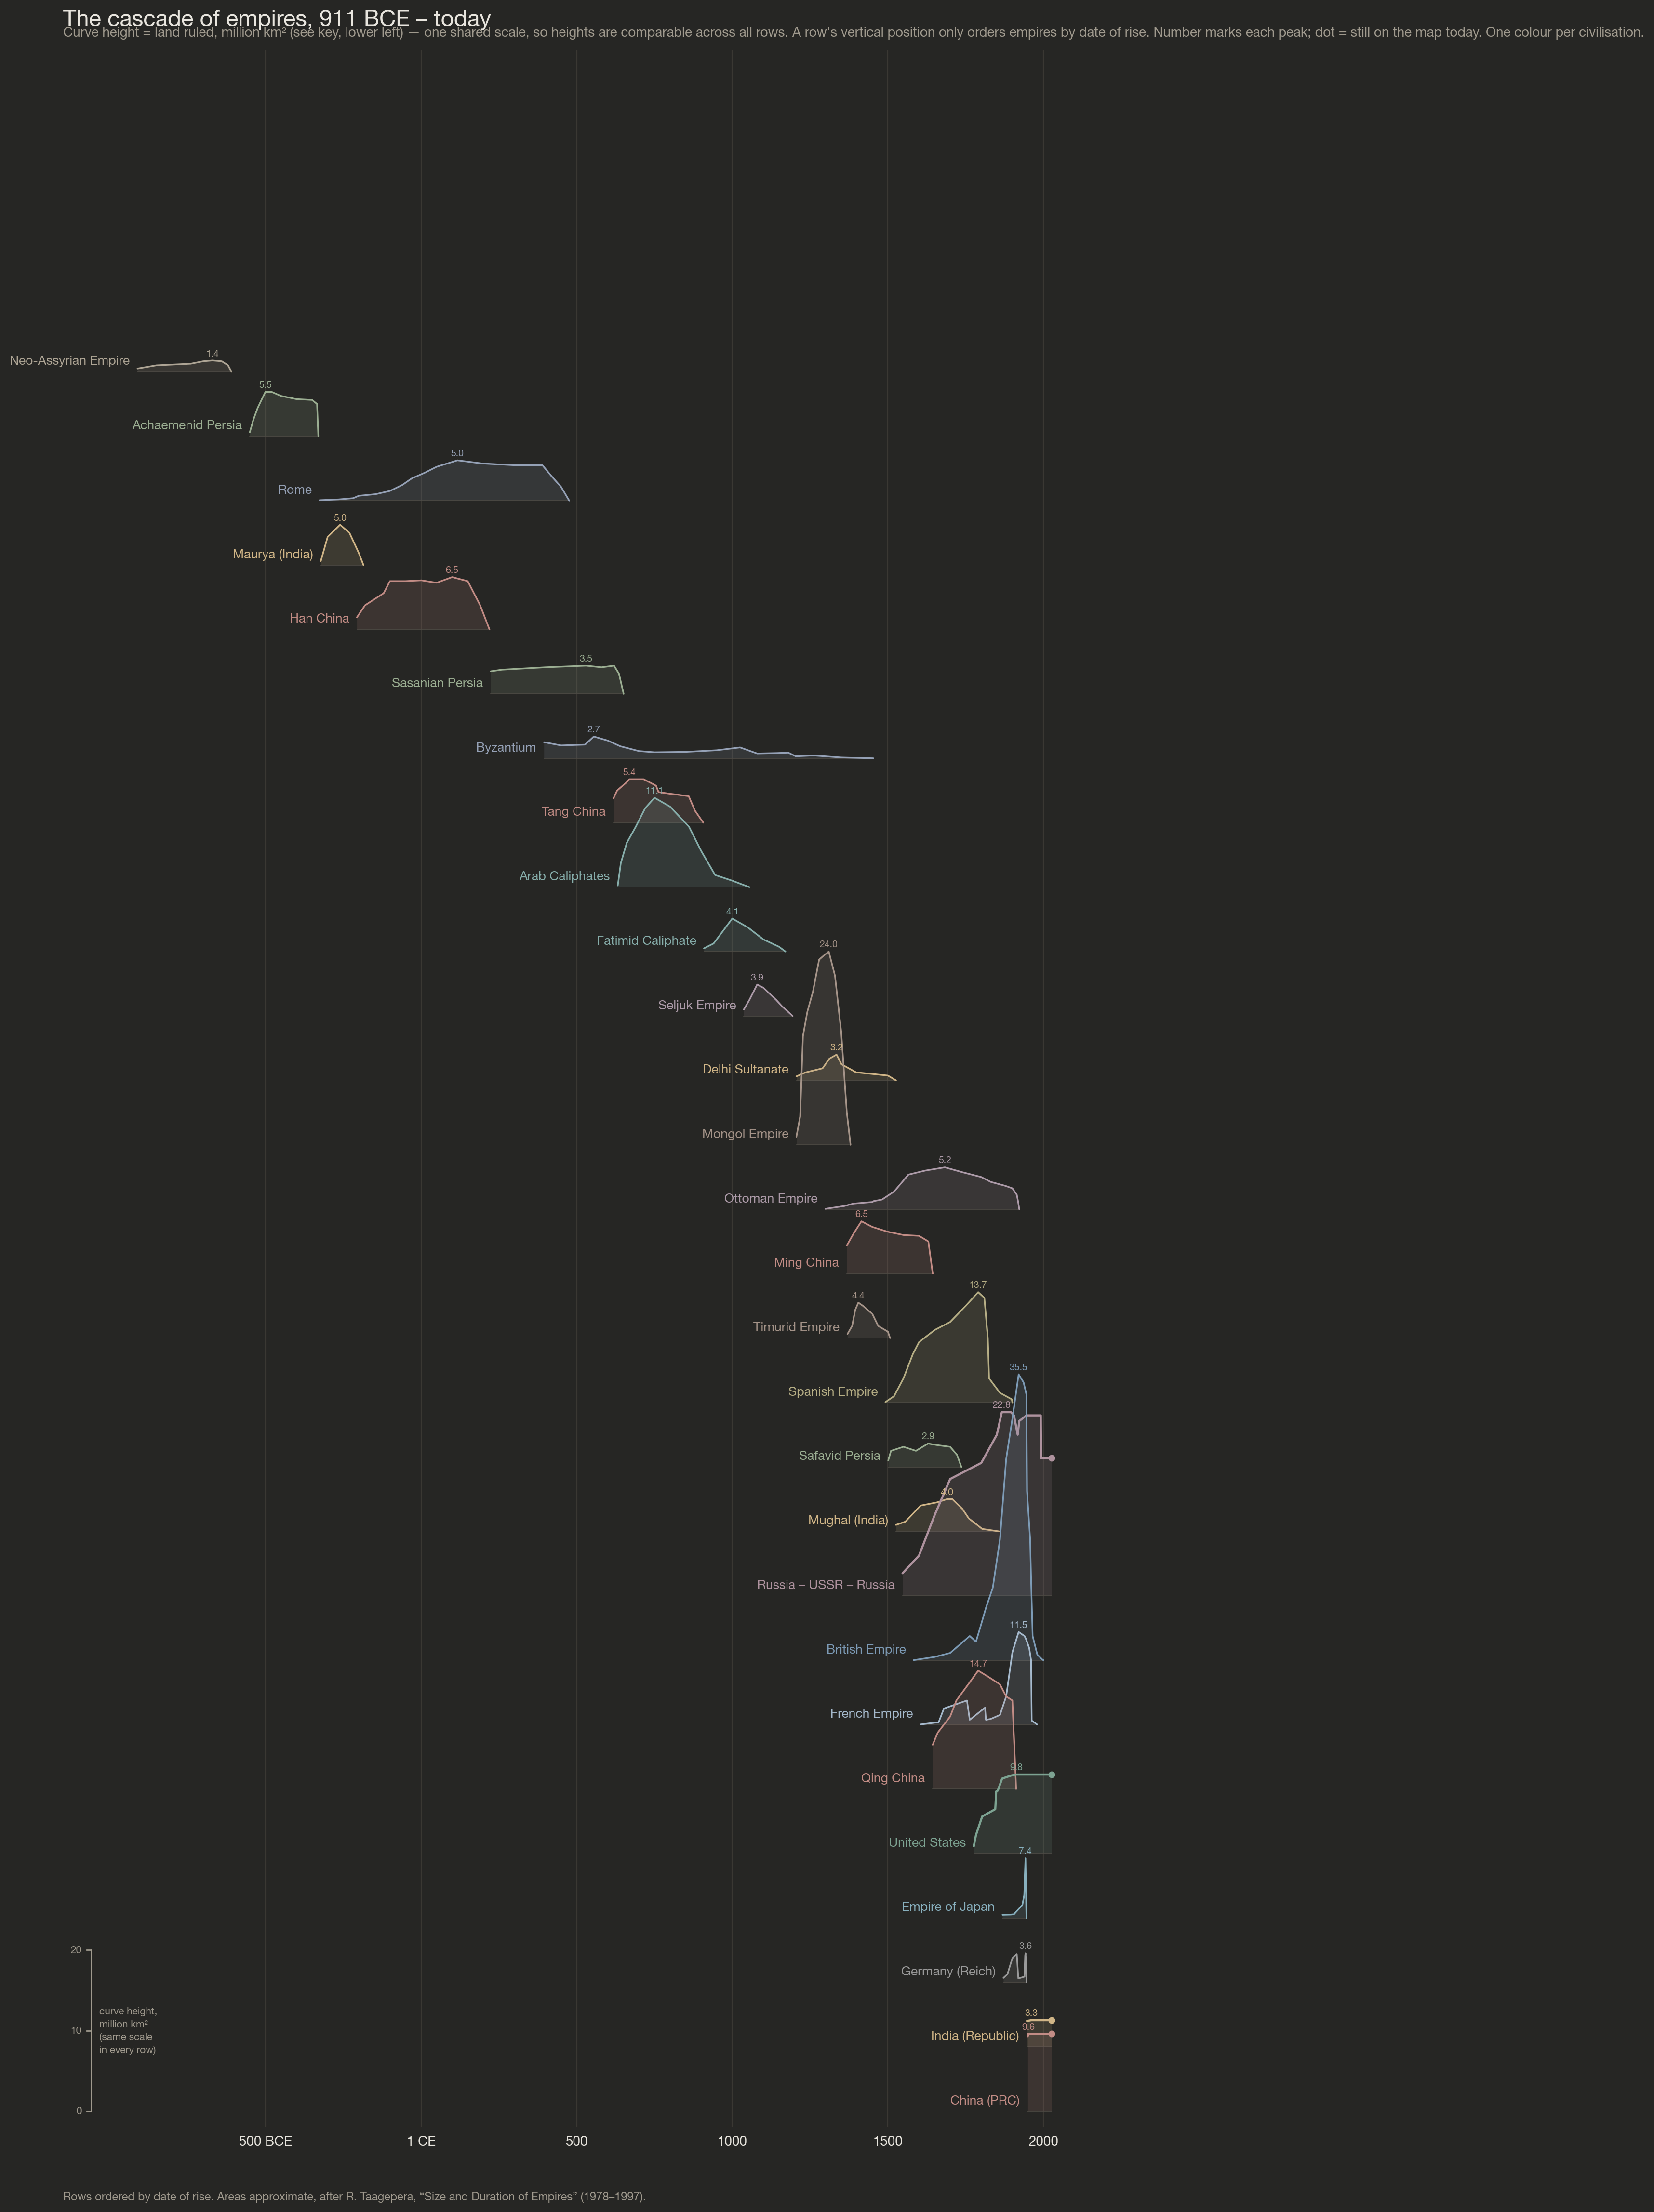
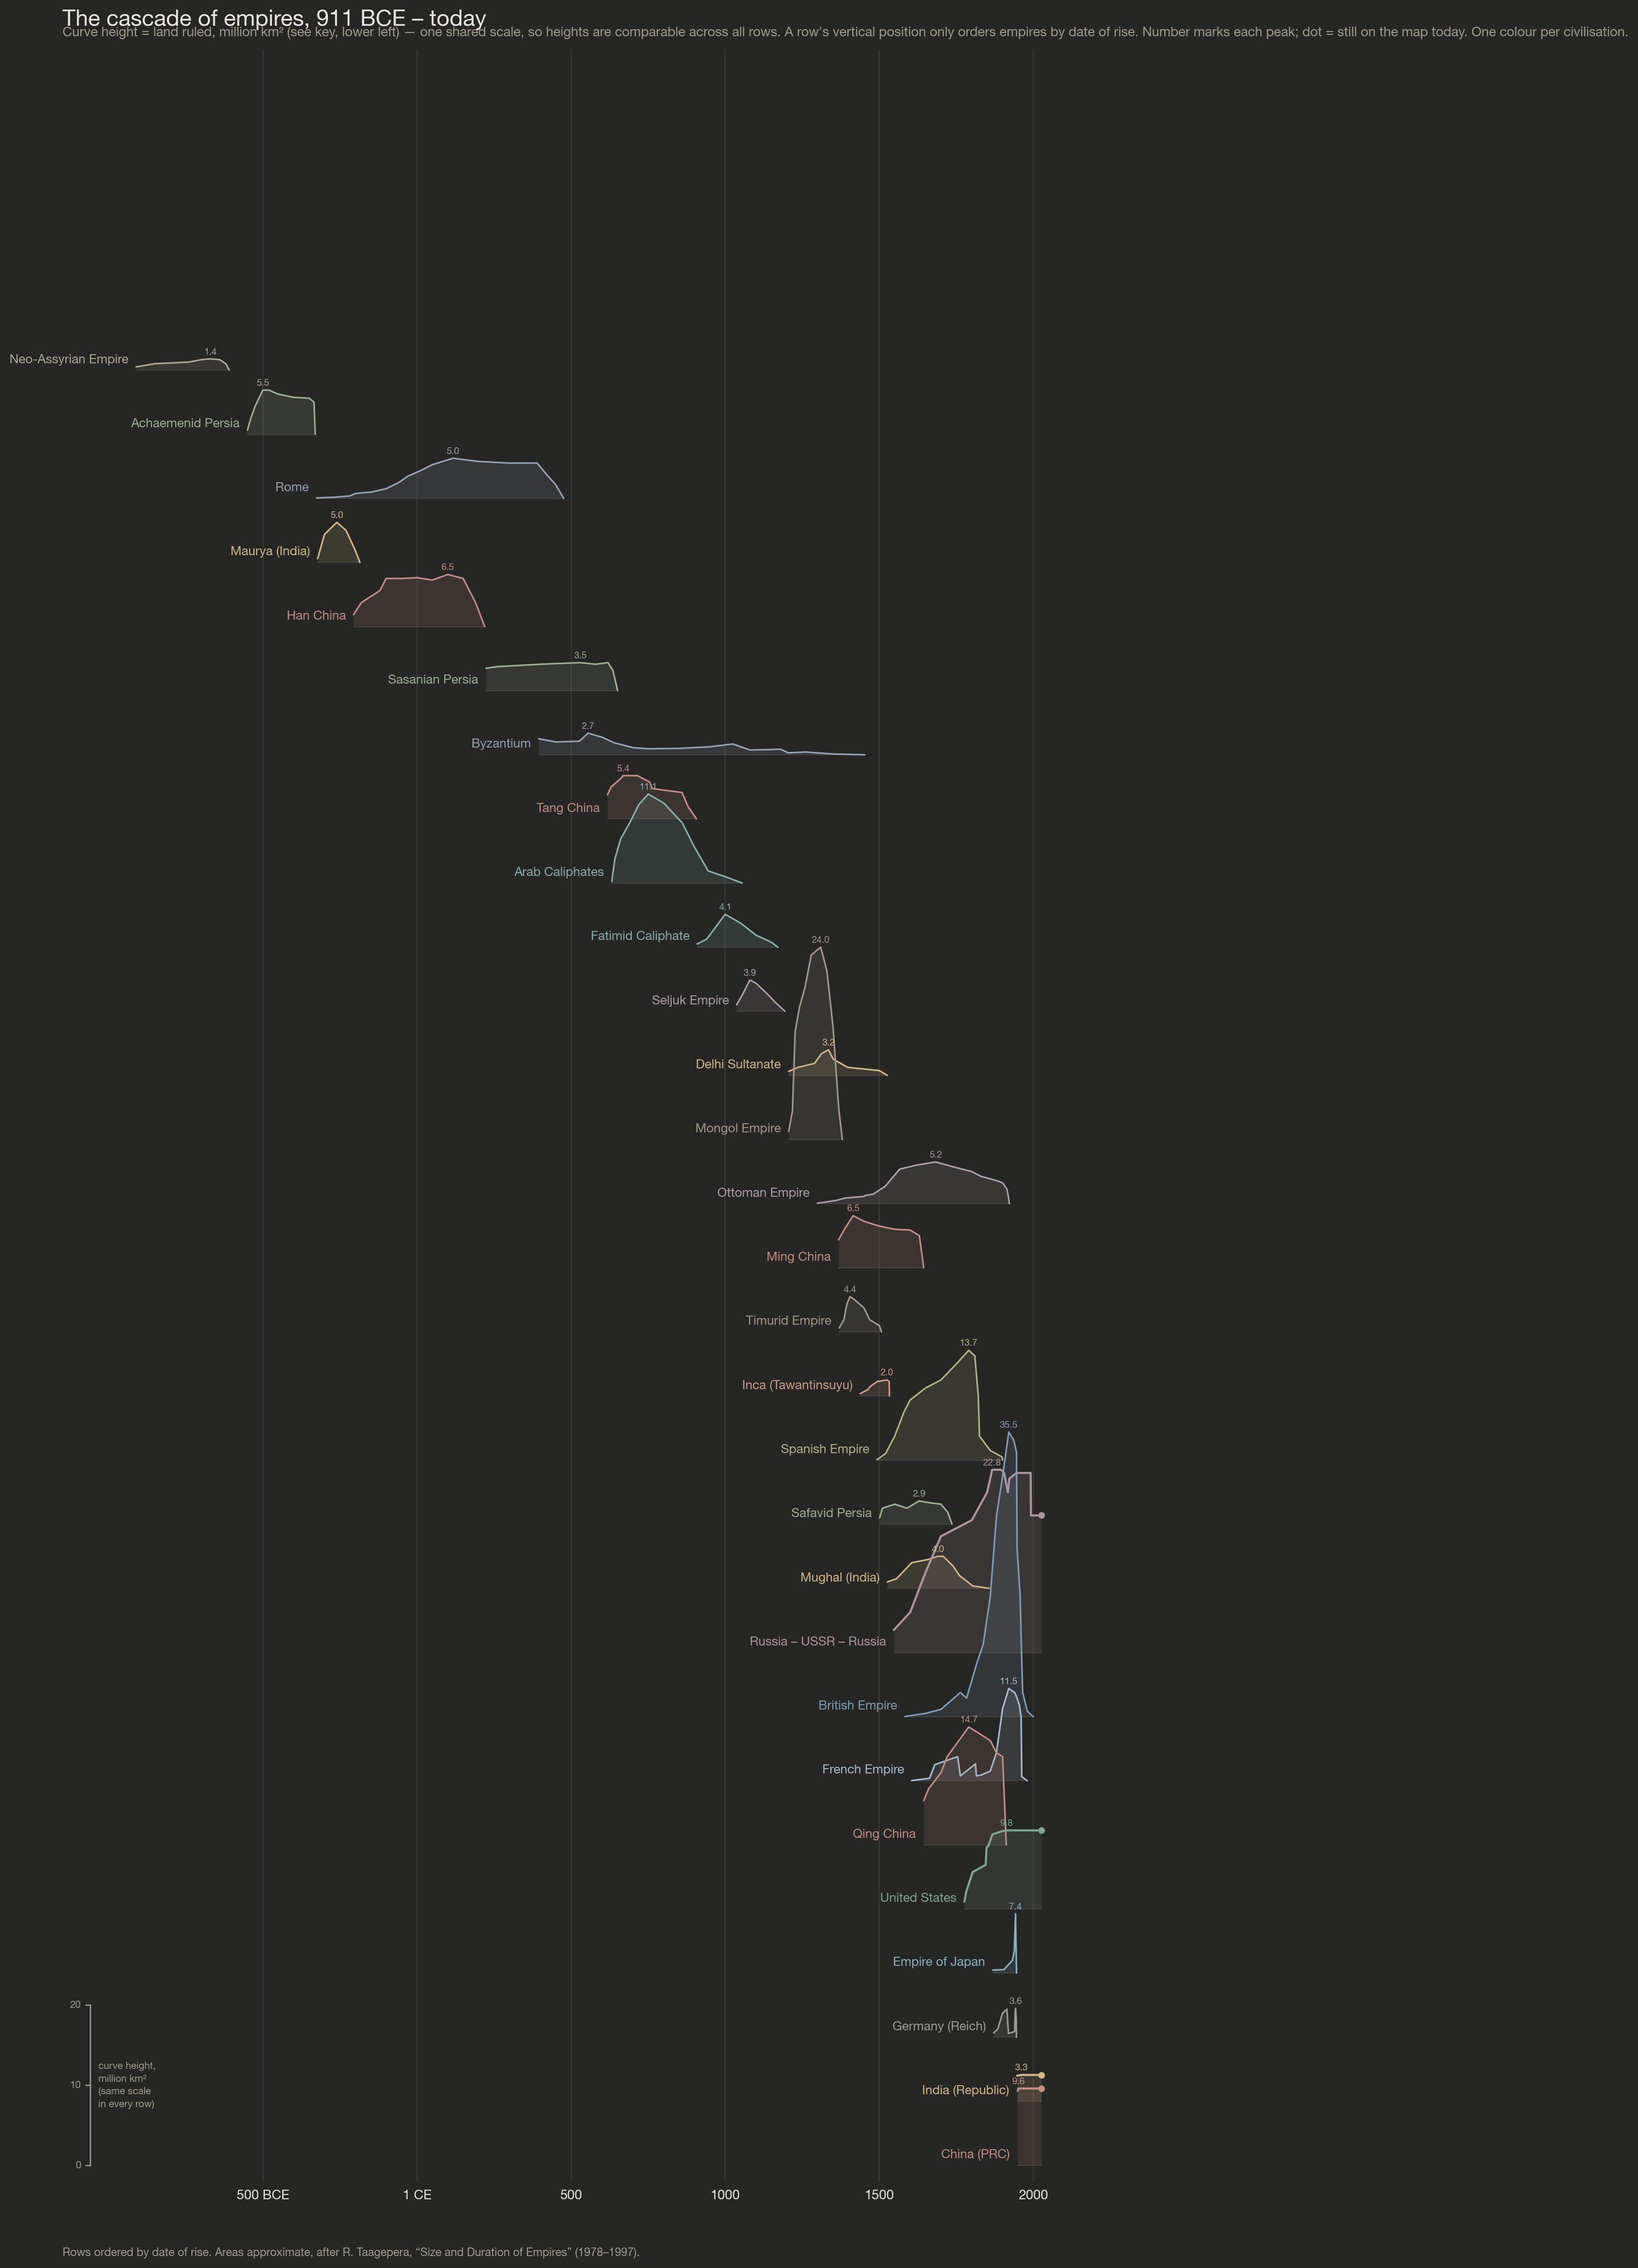
Add the Inca to the cascade; highlight active TOC section
Inca (Tawantinsuyu, 1438-1533, peak ~2 Mkm2) brings the Americas in; the
narrative notes their rise coincides with Spain's first caravels, and
Method explains why the Aztecs and modern federations stay off. The
left-margin TOC now tracks the section in view (scrollspy with a
bottom-of-page override for the last section).

diff --git a/empires-1/index.html b/empires-1/index.html
@@ -140,6 +140,7 @@
       border-left:2px solid var(--rule); padding-left:.7rem;
     }
     #toc a:hover{color:var(--accent); border-left-color:var(--accent)}
+    #toc a.active{color:var(--accent); border-left-color:var(--accent); font-weight:600}
     #toc .roman{color:var(--accent); font-style:italic; margin-right:.35rem}
   }
 
@@ -213,7 +214,7 @@
 <section class="wide" id="sec1">
   <h2 class="prose" style="padding:0"><span class="no">I.</span>The cascade</h2>
   <div class="prose" style="padding:0">
-    <p>Twenty-eight polities — empires, and the modern states that continue them — ordered top-to-bottom by the date they began to rise.
+    <p>Twenty-nine polities — empires, and the modern states that continue them — ordered top-to-bottom by the date they began to rise.
     Time runs left to right; the height of each curve is the land it ruled,
     on one common scale. Reading down any vertical line shows you everything
     that was rising, peaking, or dying <em>at the same moment</em>. One caution on the
@@ -227,7 +228,7 @@
       <div id="tip"></div>
     </div>
     <p class="hint">Hover a curve to isolate one empire · move along the timeline to see who shared the world in any year</p>
-    <noscript><img src="empires_cascade.png" alt="Ridgeline chart of 28 empires’ territorial extent, 911 BCE to today"></noscript>
+    <noscript><img src="empires_cascade.png" alt="Ridgeline chart of 29 empires’ territorial extent, 911 BCE to today"></noscript>
     <figcaption><b>Figure 1.</b> Territorial extent of major empires, 911&nbsp;BCE–2026&nbsp;CE,
     million km² on a single shared scale. Number marks each peak; a dot means the state still
     exists on today’s map. Colour groups civilisations — every brick-red curve is China. Row offsets are separation only; curve height above each baseline is the data (height key, lower left).
@@ -241,7 +242,9 @@
     horse-relay steppe, then the ocean-going ship and the telegraph.
     Second, <em class="k">empires are never alone</em> — Rome shared its whole life with
     Han China and Parthia/Persia; the parallel rise of the gunpowder empires
-    (Ottoman, Mughal, Russian, Spanish) after 1500 is almost simultaneous.
+    (Ottoman, Mughal, Russian, Spanish) after 1500 is almost simultaneous — and the
+    Inca built the Americas’ largest empire in the very decades Spain’s caravels set
+    out to end it.
     Third, <em class="k">civilisations pulse</em>: the brick-red curve dies and returns
     four times — Han, Tang, Ming, Qing — and is back on the map today as the PRC,
     alongside republican India; Persia’s green line resurfaces twice (Sasanian,
@@ -358,7 +361,9 @@
   differently. Bronze-Age empires (Egypt’s New Kingdom, Akkad, the Hittites) are left of the
   chart’s edge on purpose: including them would stretch the axis by another
   millennium for polities under ~1.5 million km²; Neo-Assyria, which bridges to
-  Persia, marks the deep end instead. Land and GDP both understate nomadic, naval,
+  Persia, marks the deep end instead. In the Americas the Inca appear; the Aztec
+  confederation (~0.2 million km²) is too small to register at this scale, and vast
+  modern federations (Brazil, Canada, Australia) are single states, not empires. Land and GDP both understate nomadic, naval,
   and network power. Treat every
   curve as a sketch of magnitude and timing, not a measurement.</p>
   <p class="note">Charts generated by <a href="make_empire_plots.py">make_empire_plots.py</a>;
@@ -520,6 +525,21 @@ function onMove(ev){
 }
 
 applyTheme(startDark);
+
+/* ---------- TOC scrollspy ---------- */
+const tocLinks = [...document.querySelectorAll('#toc a')];
+const tocTargets = tocLinks.map(a => document.querySelector(a.getAttribute('href')));
+function spyToc(){
+  const probe = innerHeight * 0.35;
+  let act = 0;
+  tocTargets.forEach((el, i) => {
+    if (el && el.getBoundingClientRect().top <= probe) act = i;
+  });
+  if (innerHeight + scrollY >= document.body.scrollHeight - 8) act = tocLinks.length - 1;
+  tocLinks.forEach((a, i) => a.classList.toggle('active', i === act));
+}
+addEventListener('scroll', spyToc, {passive: true});
+spyToc();
 </script>
 </body>
 </html>

diff --git a/empires-1/empires_data.js b/empires-1/empires_data.js
@@ -1,2 +1,2 @@
 // Generated by make_empire_plots.py — do not edit by hand.
-const EMPIRES = [{"name": "Neo-Assyrian Empire", "extant": false, "color": "#7d6e54", "colorDark": "#aea595", "pts": [[-911, 0.4], [-850, 0.8], [-740, 1.0], [-700, 1.3], [-670, 1.4], [-640, 1.3], [-620, 0.8], [-609, 0]]}, {"name": "Achaemenid Persia", "extant": false, "color": "#5e7d4f", "colorDark": "#9bae92", "pts": [[-550, 0.5], [-539, 2.0], [-525, 3.5], [-500, 5.5], [-480, 5.5], [-450, 5.0], [-400, 4.6], [-350, 4.5], [-334, 4.0], [-330, 0]]}, {"name": "Rome", "extant": false, "color": "#54678a", "colorDark": "#95a1b6", "pts": [[-326, 0.05], [-264, 0.15], [-218, 0.3], [-200, 0.6], [-146, 0.8], [-100, 1.2], [-60, 1.95], [-30, 2.75], [14, 3.5], [50, 4.2], [117, 5.0], [200, 4.6], [300, 4.4], [390, 4.4], [420, 3.0], [450, 1.7], [476, 0]]}, {"name": "Maurya (India)", "extant": false, "color": "#b3873e", "colorDark": "#d0b587", "pts": [[-322, 0.5], [-300, 3.5], [-260, 5.0], [-230, 4.0], [-200, 1.5], [-185, 0]]}, {"name": "Han China", "extant": false, "color": "#9c453a", "colorDark": "#c28c85", "pts": [[-206, 1.5], [-180, 3.0], [-120, 4.5], [-100, 6.0], [-50, 6.0], [1, 6.1], [50, 5.8], [100, 6.5], [150, 6.0], [190, 3.0], [220, 0]]}, {"name": "Sasanian Persia", "extant": false, "color": "#5e7d4f", "colorDark": "#9bae92", "pts": [[224, 2.8], [260, 3.0], [400, 3.3], [530, 3.5], [580, 3.3], [620, 3.5], [636, 2.5], [651, 0]]}, {"name": "Byzantium", "extant": false, "color": "#54678a", "colorDark": "#95a1b6", "pts": [[395, 2.0], [450, 1.6], [527, 1.7], [555, 2.7], [600, 2.2], [640, 1.5], [700, 0.9], [750, 0.75], [850, 0.8], [950, 1.0], [1025, 1.35], [1080, 0.6], [1143, 0.65], [1180, 0.7], [1204, 0.25], [1261, 0.35], [1350, 0.1], [1453, 0]]}, {"name": "Tang China", "extant": false, "color": "#9c453a", "colorDark": "#c28c85", "pts": [[618, 3.0], [630, 4.0], [660, 5.0], [669, 5.4], [715, 5.4], [755, 4.6], [763, 3.8], [800, 3.6], [860, 3.3], [880, 1.5], [907, 0]]}, {"name": "Arab Caliphates", "extant": false, "color": "#3e7d78", "colorDark": "#87aeab", "pts": [[632, 0.2], [642, 3.0], [661, 5.5], [690, 7.5], [720, 9.8], [750, 11.1], [800, 10.0], [861, 7.5], [900, 4.5], [945, 1.5], [1000, 0.8], [1055, 0]]}, {"name": "Fatimid Caliphate", "extant": false, "color": "#3e7d78", "colorDark": "#87aeab", "pts": [[909, 0.4], [940, 1.0], [969, 2.5], [1000, 4.1], [1050, 3.0], [1100, 1.5], [1150, 0.6], [1171, 0]]}, {"name": "Seljuk Empire", "extant": false, "color": "#7b5e75", "colorDark": "#ad9ba9", "pts": [[1037, 0.8], [1055, 2.0], [1080, 3.9], [1100, 3.5], [1141, 2.0], [1160, 1.2], [1194, 0]]}, {"name": "Delhi Sultanate", "extant": false, "color": "#b3873e", "colorDark": "#d0b587", "pts": [[1206, 0.5], [1236, 1.0], [1290, 1.5], [1312, 2.7], [1335, 3.2], [1351, 2.0], [1398, 1.0], [1450, 0.8], [1500, 0.6], [1526, 0]]}, {"name": "Mongol Empire", "extant": false, "color": "#6e5340", "colorDark": "#a59489", "pts": [[1206, 1.0], [1218, 3.5], [1227, 13.5], [1241, 16.5], [1259, 19.0], [1279, 23.0], [1294, 23.5], [1310, 24.0], [1330, 21.0], [1350, 14.0], [1368, 4.0], [1380, 0]]}, {"name": "Ottoman Empire", "extant": false, "color": "#7b5e75", "colorDark": "#ad9ba9", "pts": [[1299, 0.05], [1360, 0.4], [1389, 0.7], [1451, 0.9], [1453, 1.0], [1481, 1.2], [1520, 2.2], [1566, 4.3], [1620, 4.8], [1683, 5.2], [1739, 4.6], [1800, 4.0], [1830, 3.4], [1878, 2.9], [1900, 2.6], [1914, 1.8], [1918, 1.0], [1922, 0]]}, {"name": "Ming China", "extant": false, "color": "#9c453a", "colorDark": "#c28c85", "pts": [[1368, 3.5], [1390, 5.0], [1415, 6.5], [1450, 5.8], [1500, 5.2], [1550, 4.8], [1600, 4.7], [1630, 4.0], [1644, 0]]}, {"name": "Timurid Empire", "extant": false, "color": "#6e5340", "colorDark": "#a59489", "pts": [[1370, 0.5], [1385, 1.5], [1395, 3.5], [1405, 4.4], [1420, 4.0], [1450, 3.0], [1469, 1.5], [1500, 0.8], [1507, 0]]}, {"name": "Spanish Empire", "extant": false, "color": "#8a7d3a", "colorDark": "#b6ae85", "pts": [[1492, 0.05], [1520, 0.8], [1550, 3.0], [1580, 6.0], [1600, 7.5], [1650, 9.0], [1700, 10.0], [1750, 12.0], [1790, 13.7], [1810, 13.0], [1821, 8.0], [1825, 3.0], [1860, 1.2], [1898, 0.4], [1900, 0]]}, {"name": "Safavid Persia", "extant": false, "color": "#5e7d4f", "colorDark": "#9bae92", "pts": [[1501, 0.8], [1510, 2.0], [1550, 2.5], [1590, 2.0], [1629, 2.9], [1660, 2.7], [1700, 2.5], [1722, 1.5], [1736, 0]]}, {"name": "Mughal (India)", "extant": false, "color": "#b3873e", "colorDark": "#d0b587", "pts": [[1526, 0.8], [1556, 1.2], [1605, 3.2], [1658, 3.6], [1690, 4.0], [1707, 4.0], [1739, 2.8], [1760, 1.6], [1790, 0.7], [1803, 0.3], [1857, 0]]}, {"name": "Russia – USSR – Russia", "extant": true, "color": "#7d4f63", "colorDark": "#ae929e", "pts": [[1547, 2.8], [1600, 5.0], [1650, 10.0], [1700, 14.5], [1750, 15.5], [1800, 16.5], [1850, 20.0], [1866, 22.8], [1895, 22.8], [1905, 22.4], [1917, 20.0], [1922, 21.7], [1945, 22.4], [1991, 22.4], [1992, 17.1], [2026, 17.1]]}, {"name": "British Empire", "extant": false, "color": "#2e5e8a", "colorDark": "#7d9bb6", "pts": [[1583, 0.01], [1650, 0.4], [1700, 0.9], [1763, 3.0], [1783, 2.3], [1800, 4.5], [1815, 6.5], [1837, 9.0], [1860, 15.0], [1880, 25.0], [1900, 30.0], [1920, 35.5], [1936, 34.5], [1945, 33.0], [1947, 21.0], [1957, 15.0], [1960, 10.0], [1965, 3.0], [1980, 0.7], [1997, 0.05], [2000, 0]]}, {"name": "French Empire", "extant": false, "color": "#6f8fae", "colorDark": "#a6bacd", "pts": [[1605, 0.02], [1663, 0.3], [1680, 2.0], [1754, 3.0], [1763, 0.6], [1812, 2.1], [1815, 0.6], [1830, 0.7], [1860, 1.2], [1880, 3.5], [1900, 9.0], [1920, 11.5], [1939, 11.0], [1945, 10.5], [1954, 9.5], [1960, 8.0], [1962, 0.5], [1980, 0]]}, {"name": "Qing China", "extant": false, "color": "#9c453a", "colorDark": "#c28c85", "pts": [[1644, 5.5], [1660, 7.0], [1700, 9.0], [1720, 11.0], [1760, 13.1], [1790, 14.7], [1820, 14.0], [1860, 13.0], [1880, 11.5], [1900, 11.0], [1912, 0]]}, {"name": "United States", "extant": true, "color": "#2e6b4f", "colorDark": "#7da392", "pts": [[1776, 0.9], [1783, 2.3], [1803, 4.6], [1845, 5.5], [1848, 7.7], [1853, 7.8], [1867, 9.3], [1898, 9.7], [1912, 9.8], [2026, 9.8]]}, {"name": "Empire of Japan", "extant": false, "color": "#3f7f96", "colorDark": "#88b0be", "pts": [[1868, 0.38], [1895, 0.41], [1905, 0.45], [1910, 0.67], [1932, 1.6], [1938, 2.8], [1942, 7.4], [1945, 0]]}, {"name": "Germany (Reich)", "extant": false, "color": "#5c5c5c", "colorDark": "#9a9a9a", "pts": [[1871, 0.54], [1884, 1.0], [1900, 3.0], [1914, 3.5], [1919, 0.47], [1939, 0.7], [1941, 3.3], [1942, 3.6], [1944, 2.5], [1945, 0]]}, {"name": "India (Republic)", "extant": true, "color": "#b3873e", "colorDark": "#d0b587", "pts": [[1947, 3.2], [1961, 3.29], [2026, 3.29]]}, {"name": "China (PRC)", "extant": true, "color": "#9c453a", "colorDark": "#c28c85", "pts": [[1949, 9.3], [1951, 9.6], [2026, 9.6]]}];
+const EMPIRES = [{"name": "Neo-Assyrian Empire", "extant": false, "color": "#7d6e54", "colorDark": "#aea595", "pts": [[-911, 0.4], [-850, 0.8], [-740, 1.0], [-700, 1.3], [-670, 1.4], [-640, 1.3], [-620, 0.8], [-609, 0]]}, {"name": "Achaemenid Persia", "extant": false, "color": "#5e7d4f", "colorDark": "#9bae92", "pts": [[-550, 0.5], [-539, 2.0], [-525, 3.5], [-500, 5.5], [-480, 5.5], [-450, 5.0], [-400, 4.6], [-350, 4.5], [-334, 4.0], [-330, 0]]}, {"name": "Rome", "extant": false, "color": "#54678a", "colorDark": "#95a1b6", "pts": [[-326, 0.05], [-264, 0.15], [-218, 0.3], [-200, 0.6], [-146, 0.8], [-100, 1.2], [-60, 1.95], [-30, 2.75], [14, 3.5], [50, 4.2], [117, 5.0], [200, 4.6], [300, 4.4], [390, 4.4], [420, 3.0], [450, 1.7], [476, 0]]}, {"name": "Maurya (India)", "extant": false, "color": "#b3873e", "colorDark": "#d0b587", "pts": [[-322, 0.5], [-300, 3.5], [-260, 5.0], [-230, 4.0], [-200, 1.5], [-185, 0]]}, {"name": "Han China", "extant": false, "color": "#9c453a", "colorDark": "#c28c85", "pts": [[-206, 1.5], [-180, 3.0], [-120, 4.5], [-100, 6.0], [-50, 6.0], [1, 6.1], [50, 5.8], [100, 6.5], [150, 6.0], [190, 3.0], [220, 0]]}, {"name": "Sasanian Persia", "extant": false, "color": "#5e7d4f", "colorDark": "#9bae92", "pts": [[224, 2.8], [260, 3.0], [400, 3.3], [530, 3.5], [580, 3.3], [620, 3.5], [636, 2.5], [651, 0]]}, {"name": "Byzantium", "extant": false, "color": "#54678a", "colorDark": "#95a1b6", "pts": [[395, 2.0], [450, 1.6], [527, 1.7], [555, 2.7], [600, 2.2], [640, 1.5], [700, 0.9], [750, 0.75], [850, 0.8], [950, 1.0], [1025, 1.35], [1080, 0.6], [1143, 0.65], [1180, 0.7], [1204, 0.25], [1261, 0.35], [1350, 0.1], [1453, 0]]}, {"name": "Tang China", "extant": false, "color": "#9c453a", "colorDark": "#c28c85", "pts": [[618, 3.0], [630, 4.0], [660, 5.0], [669, 5.4], [715, 5.4], [755, 4.6], [763, 3.8], [800, 3.6], [860, 3.3], [880, 1.5], [907, 0]]}, {"name": "Arab Caliphates", "extant": false, "color": "#3e7d78", "colorDark": "#87aeab", "pts": [[632, 0.2], [642, 3.0], [661, 5.5], [690, 7.5], [720, 9.8], [750, 11.1], [800, 10.0], [861, 7.5], [900, 4.5], [945, 1.5], [1000, 0.8], [1055, 0]]}, {"name": "Fatimid Caliphate", "extant": false, "color": "#3e7d78", "colorDark": "#87aeab", "pts": [[909, 0.4], [940, 1.0], [969, 2.5], [1000, 4.1], [1050, 3.0], [1100, 1.5], [1150, 0.6], [1171, 0]]}, {"name": "Seljuk Empire", "extant": false, "color": "#7b5e75", "colorDark": "#ad9ba9", "pts": [[1037, 0.8], [1055, 2.0], [1080, 3.9], [1100, 3.5], [1141, 2.0], [1160, 1.2], [1194, 0]]}, {"name": "Delhi Sultanate", "extant": false, "color": "#b3873e", "colorDark": "#d0b587", "pts": [[1206, 0.5], [1236, 1.0], [1290, 1.5], [1312, 2.7], [1335, 3.2], [1351, 2.0], [1398, 1.0], [1450, 0.8], [1500, 0.6], [1526, 0]]}, {"name": "Mongol Empire", "extant": false, "color": "#6e5340", "colorDark": "#a59489", "pts": [[1206, 1.0], [1218, 3.5], [1227, 13.5], [1241, 16.5], [1259, 19.0], [1279, 23.0], [1294, 23.5], [1310, 24.0], [1330, 21.0], [1350, 14.0], [1368, 4.0], [1380, 0]]}, {"name": "Ottoman Empire", "extant": false, "color": "#7b5e75", "colorDark": "#ad9ba9", "pts": [[1299, 0.05], [1360, 0.4], [1389, 0.7], [1451, 0.9], [1453, 1.0], [1481, 1.2], [1520, 2.2], [1566, 4.3], [1620, 4.8], [1683, 5.2], [1739, 4.6], [1800, 4.0], [1830, 3.4], [1878, 2.9], [1900, 2.6], [1914, 1.8], [1918, 1.0], [1922, 0]]}, {"name": "Ming China", "extant": false, "color": "#9c453a", "colorDark": "#c28c85", "pts": [[1368, 3.5], [1390, 5.0], [1415, 6.5], [1450, 5.8], [1500, 5.2], [1550, 4.8], [1600, 4.7], [1630, 4.0], [1644, 0]]}, {"name": "Timurid Empire", "extant": false, "color": "#6e5340", "colorDark": "#a59489", "pts": [[1370, 0.5], [1385, 1.5], [1395, 3.5], [1405, 4.4], [1420, 4.0], [1450, 3.0], [1469, 1.5], [1500, 0.8], [1507, 0]]}, {"name": "Inca (Tawantinsuyu)", "extant": false, "color": "#ab5d3c", "colorDark": "#cb9b86", "pts": [[1438, 0.3], [1463, 0.8], [1471, 1.2], [1493, 1.8], [1525, 2.0], [1532, 1.8], [1533, 0]]}, {"name": "Spanish Empire", "extant": false, "color": "#8a7d3a", "colorDark": "#b6ae85", "pts": [[1492, 0.05], [1520, 0.8], [1550, 3.0], [1580, 6.0], [1600, 7.5], [1650, 9.0], [1700, 10.0], [1750, 12.0], [1790, 13.7], [1810, 13.0], [1821, 8.0], [1825, 3.0], [1860, 1.2], [1898, 0.4], [1900, 0]]}, {"name": "Safavid Persia", "extant": false, "color": "#5e7d4f", "colorDark": "#9bae92", "pts": [[1501, 0.8], [1510, 2.0], [1550, 2.5], [1590, 2.0], [1629, 2.9], [1660, 2.7], [1700, 2.5], [1722, 1.5], [1736, 0]]}, {"name": "Mughal (India)", "extant": false, "color": "#b3873e", "colorDark": "#d0b587", "pts": [[1526, 0.8], [1556, 1.2], [1605, 3.2], [1658, 3.6], [1690, 4.0], [1707, 4.0], [1739, 2.8], [1760, 1.6], [1790, 0.7], [1803, 0.3], [1857, 0]]}, {"name": "Russia – USSR – Russia", "extant": true, "color": "#7d4f63", "colorDark": "#ae929e", "pts": [[1547, 2.8], [1600, 5.0], [1650, 10.0], [1700, 14.5], [1750, 15.5], [1800, 16.5], [1850, 20.0], [1866, 22.8], [1895, 22.8], [1905, 22.4], [1917, 20.0], [1922, 21.7], [1945, 22.4], [1991, 22.4], [1992, 17.1], [2026, 17.1]]}, {"name": "British Empire", "extant": false, "color": "#2e5e8a", "colorDark": "#7d9bb6", "pts": [[1583, 0.01], [1650, 0.4], [1700, 0.9], [1763, 3.0], [1783, 2.3], [1800, 4.5], [1815, 6.5], [1837, 9.0], [1860, 15.0], [1880, 25.0], [1900, 30.0], [1920, 35.5], [1936, 34.5], [1945, 33.0], [1947, 21.0], [1957, 15.0], [1960, 10.0], [1965, 3.0], [1980, 0.7], [1997, 0.05], [2000, 0]]}, {"name": "French Empire", "extant": false, "color": "#6f8fae", "colorDark": "#a6bacd", "pts": [[1605, 0.02], [1663, 0.3], [1680, 2.0], [1754, 3.0], [1763, 0.6], [1812, 2.1], [1815, 0.6], [1830, 0.7], [1860, 1.2], [1880, 3.5], [1900, 9.0], [1920, 11.5], [1939, 11.0], [1945, 10.5], [1954, 9.5], [1960, 8.0], [1962, 0.5], [1980, 0]]}, {"name": "Qing China", "extant": false, "color": "#9c453a", "colorDark": "#c28c85", "pts": [[1644, 5.5], [1660, 7.0], [1700, 9.0], [1720, 11.0], [1760, 13.1], [1790, 14.7], [1820, 14.0], [1860, 13.0], [1880, 11.5], [1900, 11.0], [1912, 0]]}, {"name": "United States", "extant": true, "color": "#2e6b4f", "colorDark": "#7da392", "pts": [[1776, 0.9], [1783, 2.3], [1803, 4.6], [1845, 5.5], [1848, 7.7], [1853, 7.8], [1867, 9.3], [1898, 9.7], [1912, 9.8], [2026, 9.8]]}, {"name": "Empire of Japan", "extant": false, "color": "#3f7f96", "colorDark": "#88b0be", "pts": [[1868, 0.38], [1895, 0.41], [1905, 0.45], [1910, 0.67], [1932, 1.6], [1938, 2.8], [1942, 7.4], [1945, 0]]}, {"name": "Germany (Reich)", "extant": false, "color": "#5c5c5c", "colorDark": "#9a9a9a", "pts": [[1871, 0.54], [1884, 1.0], [1900, 3.0], [1914, 3.5], [1919, 0.47], [1939, 0.7], [1941, 3.3], [1942, 3.6], [1944, 2.5], [1945, 0]]}, {"name": "India (Republic)", "extant": true, "color": "#b3873e", "colorDark": "#d0b587", "pts": [[1947, 3.2], [1961, 3.29], [2026, 3.29]]}, {"name": "China (PRC)", "extant": true, "color": "#9c453a", "colorDark": "#c28c85", "pts": [[1949, 9.3], [1951, 9.6], [2026, 9.6]]}];

diff --git a/posts.js b/posts.js
@@ -11,7 +11,7 @@ const POSTS = [
     prompterUrl: "https://angadh.com",
     model: "Claude Fable 5 (xhigh)",
     blurb: "Twenty-five centuries of imperial rise and fall in three pictures: " +
-      "an interactive cascade of twenty-eight empires’ territory, the shift of power " +
+      "an interactive cascade of twenty-nine empires’ territory, the shift of power " +
       "from land to output, and every empire replayed on its own clock — with " +
       "claims about where America and China sit on their curves.",
     meta: "interactive · 3 figures · ~9 min read",

diff --git a/empires-1/make_empire_plots.py b/empires-1/make_empire_plots.py
@@ -55,6 +55,8 @@ EMPIRES = [
         (1932,1.6),(1938,2.8),(1942,7.4),(1945,0)]),
     ("Germany (Reich)", False, "#5c5c5c", [(1871,0.54),(1884,1.0),(1900,3.0),(1914,3.5),
         (1919,0.47),(1939,0.7),(1941,3.3),(1942,3.6),(1944,2.5),(1945,0)]),
+    ("Inca (Tawantinsuyu)", False, "#ab5d3c", [(1438,0.3),(1463,0.8),(1471,1.2),
+        (1493,1.8),(1525,2.0),(1532,1.8),(1533,0)]),
     ("Achaemenid Persia", False, "#5e7d4f", [(-550,0.5),(-539,2.0),(-525,3.5),(-500,5.5),(-480,5.5),
         (-450,5.0),(-400,4.6),(-350,4.5),(-334,4.0),(-330,0)]),
     ("Maurya (India)", False, "#b3873e", [(-322,0.5),(-300,3.5),(-260,5.0),(-230,4.0),(-200,1.5),(-185,0)]),
@@ -115,7 +117,7 @@ def year_fmt(y, _pos=None):
 def fig_cascade(th):
     spacing = 8.0  # million km^2 between baselines -> shared scale across rows
     n = len(EMPIRES)
-    fig, ax = plt.subplots(figsize=(13.5, 28))
+    fig, ax = plt.subplots(figsize=(13.5, 29))
     fig.patch.set_facecolor(th["bg"])
     ax.set_facecolor(th["bg"])
 